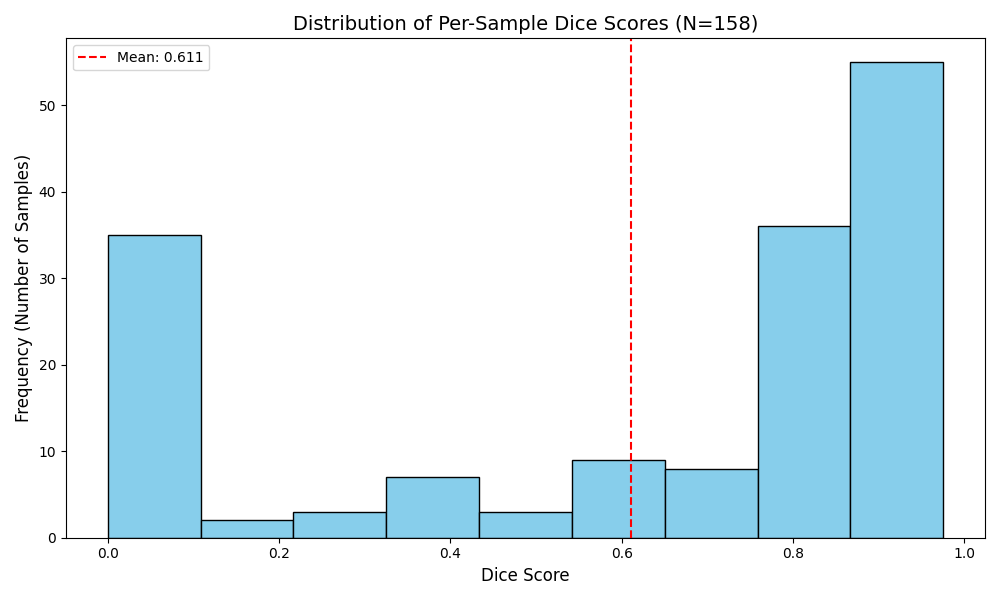
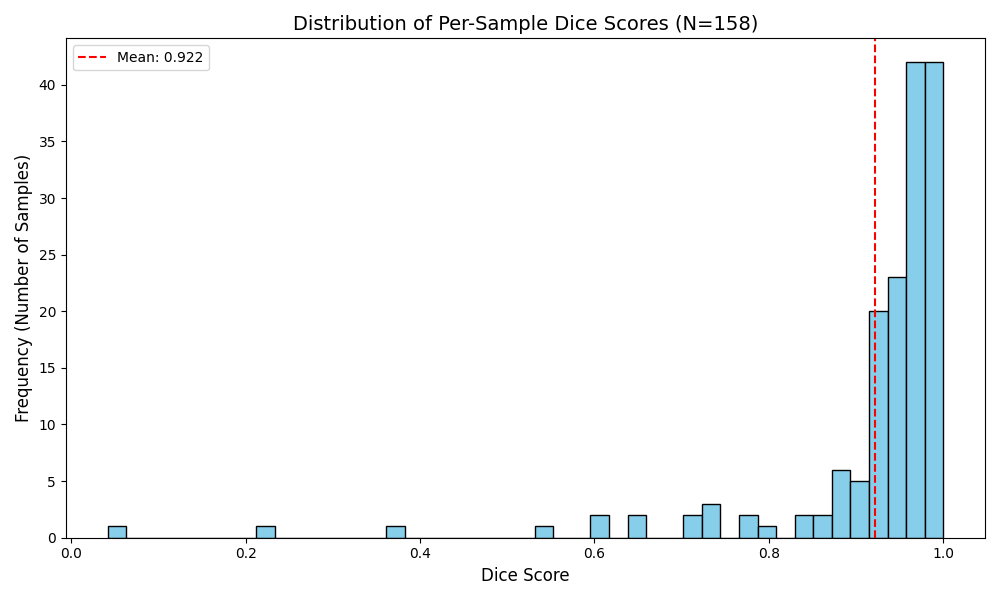
final training run done

diff --git a/src/models/components/classification_head.py b/src/models/components/classification_head.py
@@ -12,15 +12,15 @@ class ClassificationHead(nn.Module):
         self.head = nn.Sequential(
             nn.AdaptiveAvgPool2d(output_size=1),  # Pool features to 1x1
             nn.Flatten(),
-            nn.Linear(in_channels, 512),
-            nn.BatchNorm1d(512),
+            nn.Linear(in_channels, 32),
+            nn.BatchNorm1d(32),
             nn.ReLU(inplace=True),
-            nn.Dropout(0.5),  # Optional dropout
-            nn.Linear(512, 256),
-            nn.BatchNorm1d(256),
-            nn.ReLU(inplace=True),
-            nn.Dropout(0.5),  # Optional dropout
-            nn.Linear(256, num_classes),
+            nn.Dropout(0.7),
+            # nn.Linear(512, 256),
+            # nn.BatchNorm1d(256),
+            # nn.ReLU(inplace=True),
+            # nn.Dropout(0.5),
+            nn.Linear(32, num_classes),
         )
 
     def forward(self, x: torch.Tensor) -> torch.Tensor:

diff --git a/src/train.py b/src/train.py
@@ -70,8 +70,8 @@ def train(cfg: DictConfig) -> tuple[dict[str, float], str, Any]:
 
     class_weights = data_module.class_weights
 
-    # train_dl, val_dl = data_module.train_dataloader(), data_module.val_dataloader()
-    train_dl, val_dl = data_module.get_sampled_dataloader()
+    train_dl, val_dl = data_module.train_dataloader(), data_module.val_dataloader()
+    # train_dl, val_dl = data_module.get_sampled_dataloader()
 
     segmentation_criterion = hydra.utils.instantiate(cfg.losses.segmentation_criterion)
     classification_criterion = hydra.utils.instantiate(

diff --git a/src/models/vggnet_fcn_segmentation_model.py b/src/models/vggnet_fcn_segmentation_model.py
@@ -11,10 +11,10 @@ class VGGNetFCNSegmentationModel(SegmentationBaseModel):
         self,
         segmentation_criterion: torch.nn.Module,
         classification_criterion: torch.nn.Module,
+        seg_weight: float,
+        cls_weight: float,
         seg_num_classes: int = 1,
         cls_num_classes: int = 3,
-        seg_weight: float = 0.95,
-        cls_weight: float = 0.05,
         vggnet_type: str = "vgg16",
         fcn_type: str = "fcn8",
     ) -> None:

diff --git a/src/models/basemodel.py b/src/models/basemodel.py
@@ -57,8 +57,8 @@ class SegmentationBaseModel(nn.Module):
         self,
         segmentation_criterion: nn.Module,
         classification_criterion: nn.Module,
-        seg_weight: float = 0.95,
-        cls_weight: float = 0.05,
+        seg_weight: float,
+        cls_weight: float,
     ) -> None:
         """
         Initializes the BaseModel.

diff --git a/README.md b/README.md
@@ -13,7 +13,7 @@ The data collected at baseline include breast ultrasound images among women in a
 If you use this dataset, please cite:
 Al-Dhabyani W, Gomaa M, Khaled H, Fahmy A. Dataset of breast ultrasound images. Data in Brief. 2020 Feb;28:104863. DOI: 10.1016/j.dib.2019.104863.
 
-![first-look-at-datasets](results/unprocess-images.png)
+![first-look-at-datasets](results/orignal_datasets.png)
 
 ## ✨ Key Features
 
@@ -238,17 +238,23 @@ python src/train.py model.seg_weight=0.9 model.cls_weight=0.1
 
 Here are some sample results from the model:
 
+Result of last epoch of training
+
+```bash
+Epoch [99] Validation Results: lr=1e-05, total_loss=0.0338, cls_loss=0.1262, val_cls_loss=0.1635, cls_acc=0.9835, val_cls_acc=0.9781, cls_auroc=0.9988, val_cls_auroc=0.9958, seg_loss=0.0329, val_seg_loss=0.0702, seg_dice=0.8050, val_seg_dice=0.7951
+```
+
 ### Classification Report:
 
 | Class        | precision | recall | f1-score | support |
-| ------------ | --------- | ------ | -------- | ------- |
-| benign       | 0.9872    | 0.8652 | 0.9222   | 89      |
-| malignant    | 0.7885    | 0.9762 | 0.8723   | 42      |
+| :----------- | :-------- | :----- | :------- | :------ |
+| benign       | 0.9886    | 0.9775 | 0.9831   | 89      |
+| malignant    | 0.9762    | 0.9762 | 0.9762   | 42      |
 | normal       | 0.9643    | 1.0000 | 0.9818   | 27      |
 |              |           |        |          |         |
-| accuracy     |           |        | 0.9177   | 158     |
-| macro avg    | 0.9133    | 0.9471 | 0.9254   | 158     |
-| weighted avg | 0.9304    | 0.9177 | 0.9191   | 158     |
+| accuracy     |           |        | 0.9810   | 158     |
+| macro avg    | 0.9764    | 0.9846 | 0.9804   | 158     |
+| weighted avg | 0.9812    | 0.9810 | 0.9810   | 158     |
 
 ### Confusion Matrix:
 
